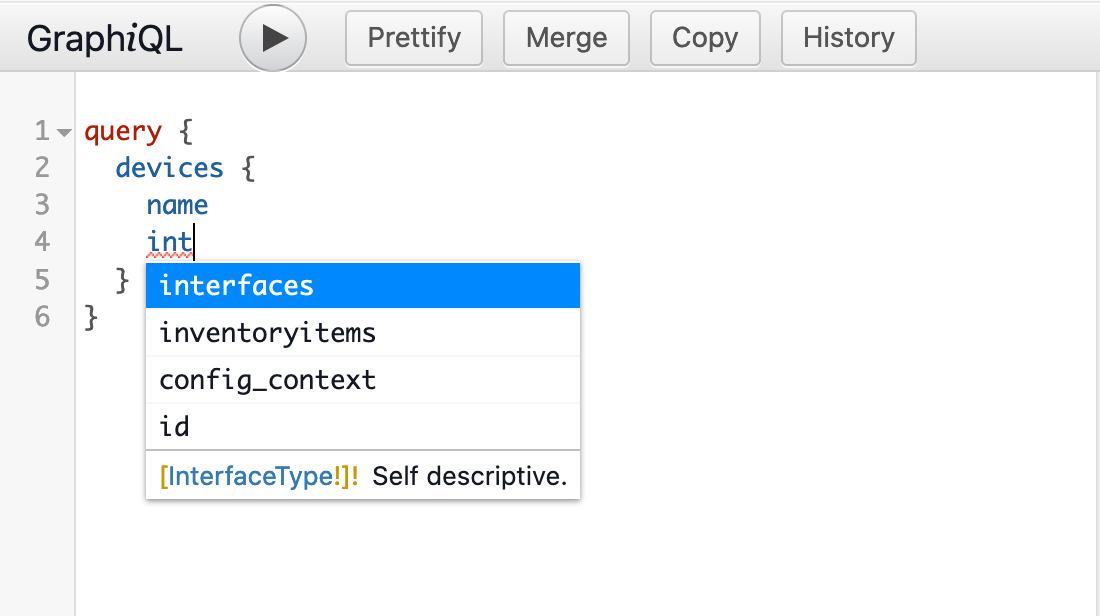
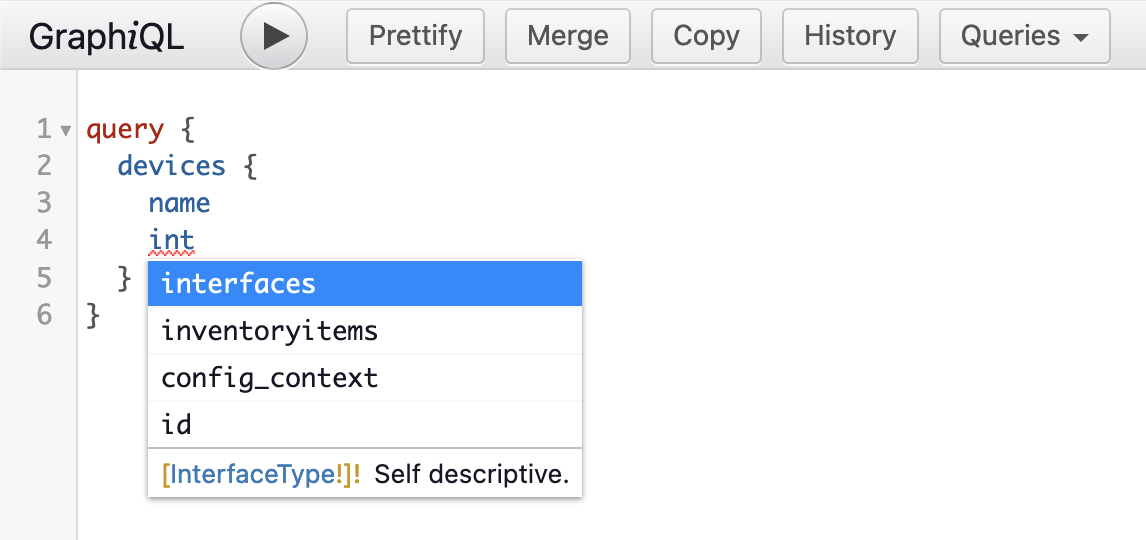
GraphQL navbar overflowing into Graphiql  (#812)
Fixes #715.

* Move fix to develop branch

* Added documentation. Changed images in side user-guide.

* Fixed screenshot sizing.

Changed region(s): [[0.0309, 0.1778, 0.5564, 0.9481], [0.0, 0.0, 1.0, 1.0]]

diff --git a/nautobot/core/templates/inc/nav_menu.html b/nautobot/core/templates/inc/nav_menu.html
@@ -117,43 +117,6 @@
                     </span>
                 </div>
             </form>
-            {% comment %}
-            The following if statement means the Query tab is only rendered when the GraphiQL
-            is rendered.
-            {% endcomment %}
-            {% if  graphiql and perms.extras.view_graphqlquery %}
-
-                <ul class="nav navbar-nav navbar-right">
-                    <li class="dropdown">
-                        <a href="#" class="dropdown-toggle" data-toggle="dropdown" role="button" aria-haspopup="true" aria-expanded="false">
-                            <span>Queries </span>
-                            <span class="caret"></span>
-                        </a>
-                        <ul class="dropdown-menu" id="graphql-queries-menu">
-                            <li class="dropdown-header">Saved Queries</li>
-                            {% for query in saved_graphiql_queries %}
-                                <li>
-                                    {% if request.GET.id|slugify == query.id|slugify %}
-                                        <div class="buttons pull-right">
-                                            <button type="button" class="btn btn-xs btn-warning" onclick="save()"><i class="mdi mdi-content-save-edit"></i> Save Changes</button>
-                                        </div>
-                                        <a href="#" onclick="reload('{{ query.id }}', '{{ query.query|urlencode }}', '{{ query.variables|render_json|urlencode }}')">
-                                            <strong>{{ query.name }}</strong>
-                                        </a>
-                                    {% else %}
-                                        <a href="#" onclick="reload('{{ query.id }}', '{{ query.query|urlencode }}', '{{ query.variables|render_json|urlencode }}')">{{ query.name }}</a>
-                                    {% endif %}
-                                </li>
-                            {% endfor %}
-                            <li class="divider" role="separator"></li>
-                            <li>
-                                <a onclick="populate_model()" data-toggle="modal" data-target="#GraphQLQueries_form" title="Query Form">Save Current Query As...</a>
-                            </li>
-                        </ul>
-                    <li>
-                </ul>
-
-            {% endif %}
         </div>
     </div>
 </nav>

diff --git a/nautobot/core/templates/graphene/graphiql.html b/nautobot/core/templates/graphene/graphiql.html
@@ -116,6 +116,40 @@ add "&raw" to the end of the URL within a browser.
   </script>
   <script src="{% static 'graphene_django/graphiql.js' %}"></script>
   <script>
+  {% if perms.extras.view_graphqlquery %}
+    document.addEventListener('DOMContentLoaded', function() {
+      queries_tab = `
+        <div class="btn-group" role="button">
+          <button class="toolbar-button dropdown-toggle" aria-haspopup="true" aria-expanded="false" data-toggle="dropdown">
+              <span>Queries </span>
+              <span class="caret"></span>
+          </button>
+          <ul class="dropdown-menu" id="graphql-queries-menu">
+            <li class="dropdown-header">Saved Queries</li>
+              {% for query in saved_graphiql_queries %}
+                <li>
+                    {% if request.GET.id|slugify == query.id|slugify %}
+                        <div class="buttons pull-right">
+                            <a class="btn btn-xs btn-warning" onclick="save()"><i class="mdi mdi-content-save-edit"></i> Save Changes</a>
+                        </div>
+                        <a href="#" onclick="reload('{{ query.id }}', '{{ query.query|urlencode }}', '{{ query.variables|render_json|urlencode }}')">
+                            <strong>{{ query.name }}</strong>
+                        </a>
+                    {% else %}
+                        <a href="#" onclick="reload('{{ query.id }}', '{{ query.query|urlencode }}', '{{ query.variables|render_json|urlencode }}')">{{ query.name }}</a>
+                    {% endif %}
+                </li>
+              {% endfor %}
+              <li class="divider" role="separator"></li>
+                <li>
+                    <a onclick="populate_model()" data-toggle="modal" data-target="#GraphQLQueries_form" title="Query Form">Save Current Query As...</a>
+                </li>
+            </ul>
+        </div>
+      `
+      $(".toolbar").append(queries_tab);
+    }, false);
+  {% endif %}
 
     function reload(id, query, variables) {
       if (variables == null){

diff --git a/nautobot/core/views/__init__.py b/nautobot/core/views/__init__.py
@@ -221,7 +221,6 @@ class CustomGraphQLView(GraphQLView):
         if query_slug:
             data["obj"] = GraphQLQuery.objects.get(slug=query_slug)
             data["editing"] = True
-        data["graphiql"] = True
         data["saved_graphiql_queries"] = GraphQLQuery.objects.all()
         data["form"] = GraphQLQueryForm
         return render(request, self.graphiql_template, data)

diff --git a/nautobot/docs/user-guides/graphql.md b/nautobot/docs/user-guides/graphql.md
@@ -297,6 +297,16 @@ print(json.dumps(gql.json, indent=2))
 
 In the updated script, we add the `variables = {"site_name": "ams"}` variable. We then update the query to let GraphQL know that we will be sending parameters to to filter by `site`. The updated output is still a JSON object. Instead of fetching all devices, we are filtering by devices in the `ams` site. The PyNautobot SDK has some [excellent GraphQL examples](https://pynautobot.readthedocs.io/en/latest/api/core/graphql.html). Be sure to check out the documentation.
 
+### Saving Queries
+
+Queries can now be stored inside of Nautobot, allowing the user to easily rerun previously defined queries.
+
+Inside of **Extensibility -> Data Management -> GraphQL Queries**, there are views to create and manage GraphQL queries.
+
+Saved queries can be executed from the detailed query view or via a REST API request. The queries can also be populated from the detailed query view into GraphiQL by using the "Open in GraphiQL" button. Additionally, in the GraphiQL UI, there is now a menu item, "Queries", which can be used to populate GraphiQL with any previously saved query.
+
+To execute a stored query via the REST API, a POST request can be sent to `/api/extras/graphql-queries/[slug]/run/`. Any GraphQL variables required by the query can be passed in as JSON data within the request body.
+
 ## Closing
 
 GraphQL is a powerful, yet simple, tool for querying the exact information that is necessary for the task at hand. For further information about GraphQL, be sure to check out the [GraphQL Docs](https://graphql.org/learn/)!

diff --git a/nautobot/docs/models/extras/graphqlquery.md b/nautobot/docs/models/extras/graphqlquery.md
@@ -12,9 +12,9 @@ When queries get saved to the database from the form, the query is first loaded 
 
 Modifications have been made to the GraphiQL page to allow the running, editing and saving of this model.
 
-On the right side of the navigation menu there is a new tab which is only visible when the GraphiQL interface is open called "Queries". Inside this tab will list all saved queries in the database allowing the user to open them into GraphiQL.
+A dropdown button called "Queries" has been added to the GraphiQL toolbar. This lists all saved queries in the database allowing the user to open them into GraphiQL.
 
-If a saved query has been opened, a button will appear next to the name in the "Queries" tab called "Save Changes". This allows the user to save any changes to the model object.
+If a saved query has been opened, a button will appear next to the name inside the "Queries" dropdown called "Save Changes". This allows the user to save any changes to the model object.
 
 If the user wants to create a new query, at the bottom of the "Queries" tab there is an option called "Save Current Query As...". This will open a modal form to input data, such as the name of the query, and then save the query to the database.
 
